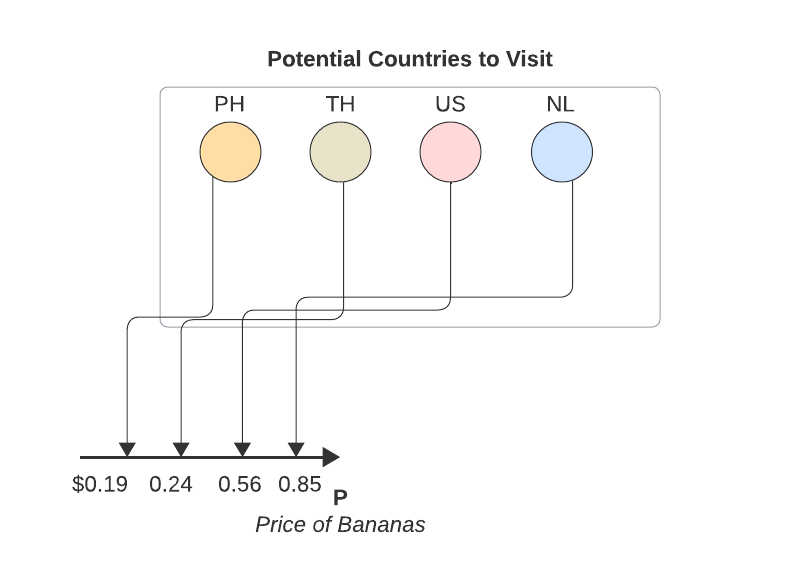
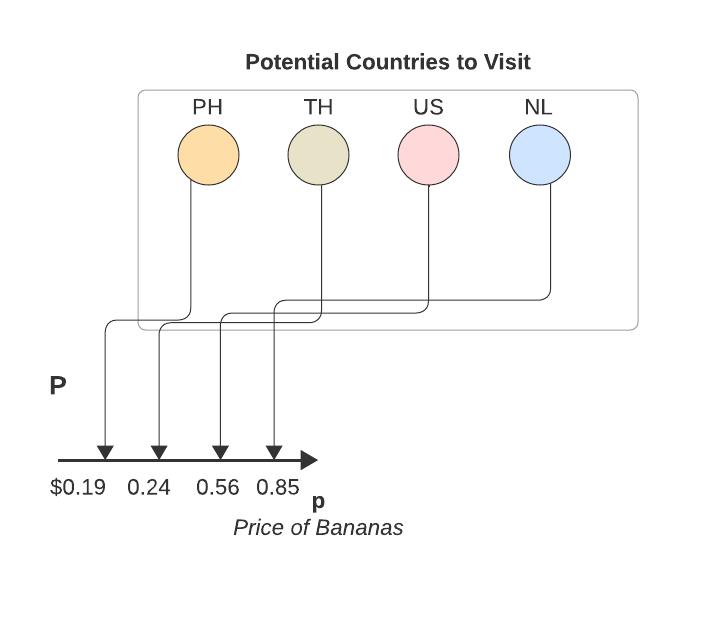
update ranomd variable post

diff --git a/_posts/2023-10-18-random-variables.md b/_posts/2023-10-18-random-variables.md
@@ -20,12 +20,12 @@ Let's say we only have four countries we're going to potentially travel to: Phil
 
 
 
-We can then take what we learned from our bing serach and map (or assign) each of the corresponding price of a banana to each country. 
+We can then take what we learned from our bing search and map (or assign) each country to their corresponding banana price. 
 
 ![sample space of countries with mapping](/docs/assets/2023-10-18/1-country-sample-space-mapping.png)
 
 
-I'm making this up. That being said the function of mapping that we did here is what defines what a random variable is.
+I'm making this up. That being said the function of mapping (i.e. 'P') that we did here is what defines what a random variable is.
 
 
 The really confusing part is that 'random' doesn't mean random in the strict sense, where it's truly unpredictable and without pattern (also a lot of debate whether there is anything that is actually random). Instead, 'random' is more so saying that it comes from uncertain outcomes and the function of mapping from these outcomes to a number, is what a random variable is. The uncertainity lies in the outcome of the experiment (i.e. it's not clear which country you're going to visit).
@@ -33,11 +33,14 @@ The really confusing part is that 'random' doesn't mean random in the strict sen
 
 It really becomes clear if we add additional uncertainty, like let's say we're uncertain of when we're going on our banana exploration trip. We're either going this year or next.
 
-We would expand the sample space then to have multiple observations or outcomes related to each country, with each outcome being linked to a year. To be clear the overall grey square that envelops the circles we've been drawing lines from is called a sample space. A sample space simply containes possible outcomes. Each possible outcome in a sample space is mutually exclusive (e.g. you can't visit two countries at the same time) and collectively exhuastive (e.g. we have a complete list of possible countries we can visit and when).
+We would expand the white box then to have multiple observations or outcomes related to each country, with each outcome being linked to both a country and year that we visit.
+
+To be clear the white box that the circles sit inside is called a sample space. A sample space simply contains possible outcomes of an experiment. Each possible outcome in a sample space is mutually exclusive (e.g. you can't visit two countries at the same time) and collectively exhuastive (e.g. we have a complete list of possible countries we can visit and when).
 
 So let's change the granularity by adding another variable to each possible outocme, so the outcomes in the sample space now include two defining variables: country and time (year) of visit.
 
-SAMPLE SPACE CHANGES WITH 6 VARIABLES DUE TO YEAR
+
+![sample space of countries with mapping](/docs/assets/2023-10-18/2-country-sample-space-w-year.png)
 
 
 We can map these to new possible outcomes. 
